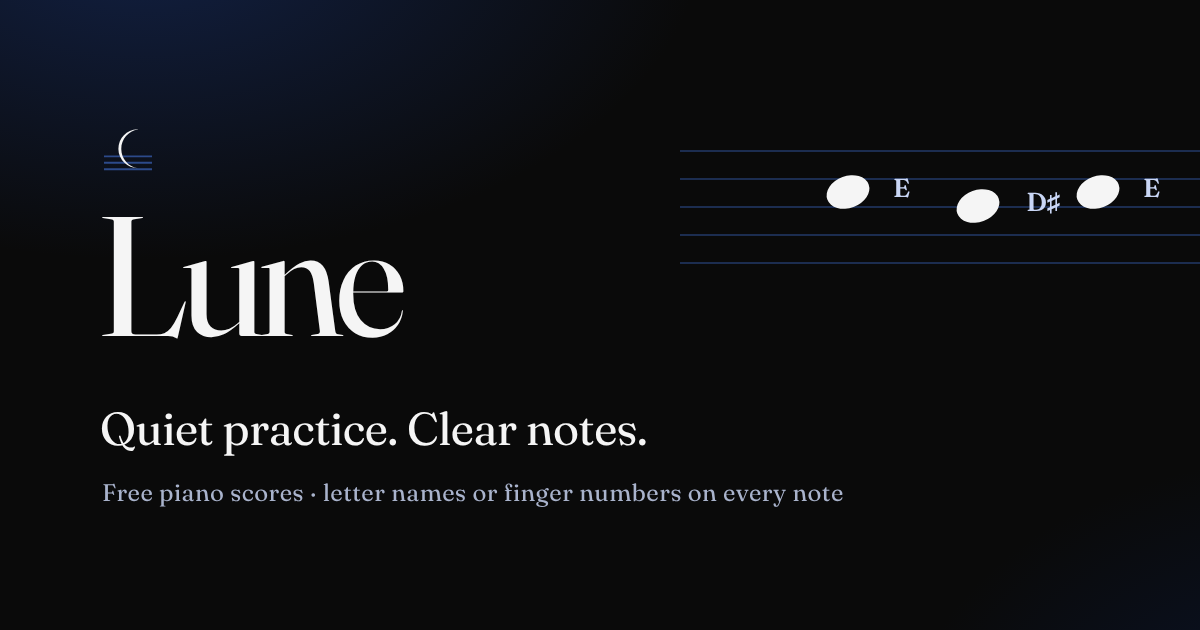
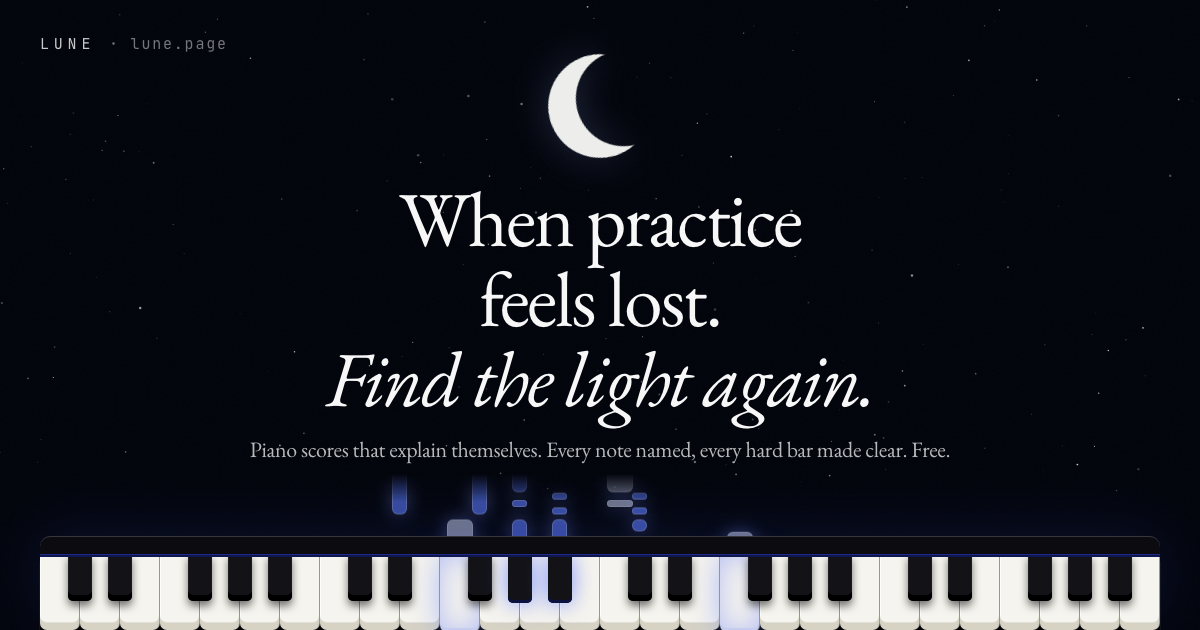
Landing piano answers the first touch; demo Play in 1.5 s; new link preview.
- The landing keys load their own light piano (8 Salamander samples, ~0.5 MB) as soon as
  someone moves, touches or scrolls; until it is ready a soft tone answers, so no touch is
  silent. Before, a first touch waited for all 30 samples (~2 MB): 9+ s of silence on slow 4G.
- Audio is started inside the tap itself, as iPhones require.
- LunePiano.preload() fetches the samples without a tap; ensure() always unlocks audio,
  even while a preload is in flight. The tour's Play demo and a score opened by link
  preload, so Play answers in 1.5 s instead of 10 s on slow 4G.
- og.png is the real opening screen (moon, line, piano) with the Lune mark; preview text
  says what Lune is.

diff --git a/frontend/moonrise.js b/frontend/moonrise.js
@@ -119,36 +119,89 @@
     return { x: r.left - host.left, w: r.width };
   }
 
-  /* touch a key and it plays, with the studio's own piano */
+  /* touch a key and it plays. The landing loads its own light piano: eight Salamander
+     samples (one every six semitones over these keys, ~0.5 MB) instead of the studio's
+     thirty, so it is ready within a second or two even on a phone. Until then a soft
+     tone answers, so no touch is ever silent. */
   let sampler = null;
-  let loading = null;
-  function piano() {
-    if (sampler) return Promise.resolve(sampler);
-    if (!loading) {
-      loading = (window.LunePiano?.ensure?.() || Promise.reject(new Error("no piano")))
-        .then((s) => (sampler = s))
-        .catch(() => {
-          loading = null;
-          return null;
-        });
+  let lite = null;
+  const SAMPLES = (() => {
+    try {
+      return new URL("vendor/salamander/", document.querySelector('script[src*="moonrise.js"]')?.src || location.href).href;
+    } catch {
+      return "static/vendor/salamander/";
     }
-    return loading;
+  })();
+  function loadLite() {
+    if (sampler || lite || !window.Tone) return lite;
+    lite = new Promise((done) => {
+      try {
+        const s = new Tone.Sampler({
+          urls: { C3: "C3.mp3", "F#3": "Fs3.mp3", C4: "C4.mp3", "F#4": "Fs4.mp3", C5: "C5.mp3", "F#5": "Fs5.mp3", C6: "C6.mp3", "F#6": "Fs6.mp3" },
+          baseUrl: SAMPLES,
+          attack: 0.02,
+          release: 1.2,
+          onload: () => {
+            sampler = s;
+            hero.dataset.piano = "ready";
+            done(s);
+          },
+          onerror: () => {
+            lite = null;
+            done(null);
+          },
+        }).toDestination();
+        s.volume.value = -4;
+      } catch {
+        lite = null;
+        done(null);
+      }
+    });
+    return lite;
+  }
+
+  let stand = null;
+  function standIn(m, vel) {
+    try {
+      if (!stand) {
+        stand = new Tone.PolySynth(Tone.Synth, {
+          oscillator: { type: "triangle" },
+          envelope: { attack: 0.005, decay: 0.9, sustain: 0.05, release: 1.2 },
+        }).toDestination();
+        stand.volume.value = -14;
+      }
+      stand.triggerAttackRelease(noteName(m), 0.9, undefined, vel);
+    } catch {}
   }
 
   function strike(m, vel = 0.55) {
     const el = keyEls.get(m);
     if (!el) return;
+    // audio must be started inside the tap itself (iPhone, Safari, Chrome)
+    try {
+      window.Tone?.start?.();
+    } catch {}
     el.classList.remove("is-hit");
     void el.offsetWidth;
     el.classList.add("is-hit");
     ripple(m);
     hero.classList.add("has-played");
-    piano().then((s) => {
-      try {
-        s?.triggerAttackRelease(noteName(m), 1.6, undefined, vel);
-      } catch {}
-    });
+    if (!window.Tone) return;
+    loadLite();
+    try {
+      if (sampler) sampler.triggerAttackRelease(noteName(m), 1.6, undefined, vel);
+      else standIn(m, vel);
+    } catch {}
   }
+
+  /* fetch the light piano as soon as someone is here: a move, a touch, a scroll or a key */
+  const warm = () => {
+    ["pointermove", "touchstart", "keydown"].forEach((t) => window.removeEventListener(t, warm, true));
+    home?.removeEventListener?.("scroll", warm);
+    loadLite();
+  };
+  ["pointermove", "touchstart", "keydown"].forEach((t) => window.addEventListener(t, warm, { capture: true, passive: true }));
+  home?.addEventListener?.("scroll", warm, { passive: true });
 
   function ripple(m) {
     const b = keyBox(m);

diff --git a/frontend/index.html b/frontend/index.html
@@ -20,16 +20,16 @@
   <meta property="og:type" content="website">
   <meta property="og:site_name" content="Lune">
   <meta property="og:title" content="Lune — so practice feels right again">
-  <meta property="og:description" content="Named for Clair de lune — the piece that settles everything when practice feels lost. Free scores, clear notes, a path back to the music.">
+  <meta property="og:description" content="Piano scores that explain themselves: every note named, every hard bar made clear. 3,700+ free scores, braille music, works offline.">
   <meta property="og:url" content="https://lune.page/">
-  <meta property="og:image" content="https://lune.page/static/assets/og.png">
+  <meta property="og:image" content="https://lune.page/static/assets/og.png?v=lune50">
   <meta property="og:image:width" content="1200">
   <meta property="og:image:height" content="630">
   <meta property="og:image:alt" content="Lune — so practice feels right again">
   <meta name="twitter:card" content="summary_large_image">
   <meta name="twitter:title" content="Lune — so practice feels right again">
-  <meta name="twitter:description" content="Named for Clair de lune — a night studio that helps practice feel right again.">
-  <meta name="twitter:image" content="https://lune.page/static/assets/og.png">
+  <meta name="twitter:description" content="Piano scores that explain themselves: every note named, every hard bar made clear. Free.">
+  <meta name="twitter:image" content="https://lune.page/static/assets/og.png?v=lune50">
   <meta name="apple-mobile-web-app-capable" content="yes">
   <meta name="mobile-web-app-capable" content="yes">
   <meta name="apple-mobile-web-app-status-bar-style" content="black">

diff --git a/frontend/piano.js b/frontend/piano.js
@@ -186,10 +186,24 @@ window.LunePiano = (function () {
       await unlockAudio();
       return sampler;
     }
-    if (loading) return loading;
     if (typeof Tone === "undefined") throw new Error("Tone.js missing");
-    loading = (async () => {
+    if (loading) {
+      // a preload is already fetching the samples: unlock now, inside the tap
       await unlockAudio();
+      return loading;
+    }
+    return load(true);
+  }
+
+  /** Fetch and decode the piano samples without starting audio (no tap needed). */
+  function preload() {
+    if ((sampler && sampler.loaded) || loading || typeof Tone === "undefined") return loading || Promise.resolve(sampler);
+    return load(false).catch(() => null);
+  }
+
+  function load(unlock) {
+    loading = (async () => {
+      if (unlock) await unlockAudio();
       buildChain();
       let lastErr = null;
       for (const base of SAMPLE_BASES) {
@@ -1046,6 +1060,7 @@ window.LunePiano = (function () {
 
   return {
     ensure,
+    preload,
     play,
     arm,
     pause,

diff --git a/frontend/landing-score.js b/frontend/landing-score.js
@@ -369,6 +369,8 @@ window.LuneLanding = (function () {
                 if (!en.isIntersecting) continue;
                 io.unobserve(en.target);
                 engrave(en.target).catch(() => {});
+                // the Play demo is near: fetch the studio piano now, so Play answers at once
+                if (en.target.closest(".home-feat-device")?.querySelector("[data-play]")) window.LunePiano?.preload?.();
               }
             },
             { root: document.getElementById("home"), rootMargin: "400px 0px" }

diff --git a/frontend/app.js b/frontend/app.js
@@ -2006,6 +2006,8 @@ async function openPieceSession(piece, { panel = "explain" } = {}) {
   try {
     // Audio may only start after a user gesture; searching counts as one.
     if (navigator.userActivation?.hasBeenActive !== false) LunePiano.ensure()?.catch?.(() => {});
+    // no tap yet (a shared link): fetch the samples anyway; Play unlocks the sound
+    else LunePiano.preload?.();
   } catch {
     /* samples load lazily on first play */
   }
